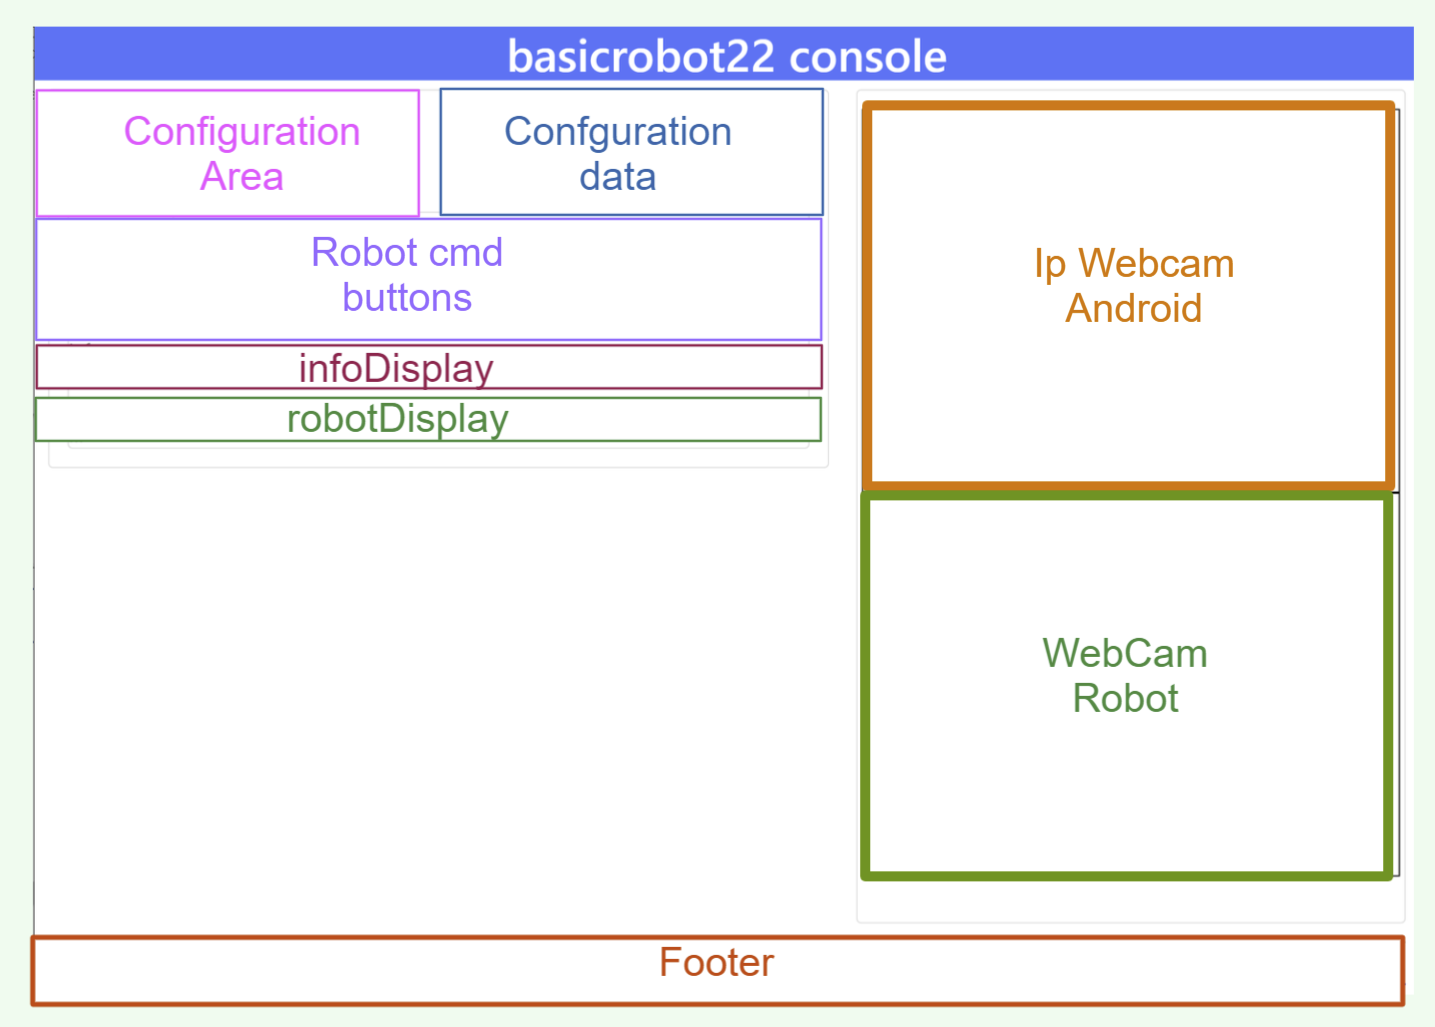
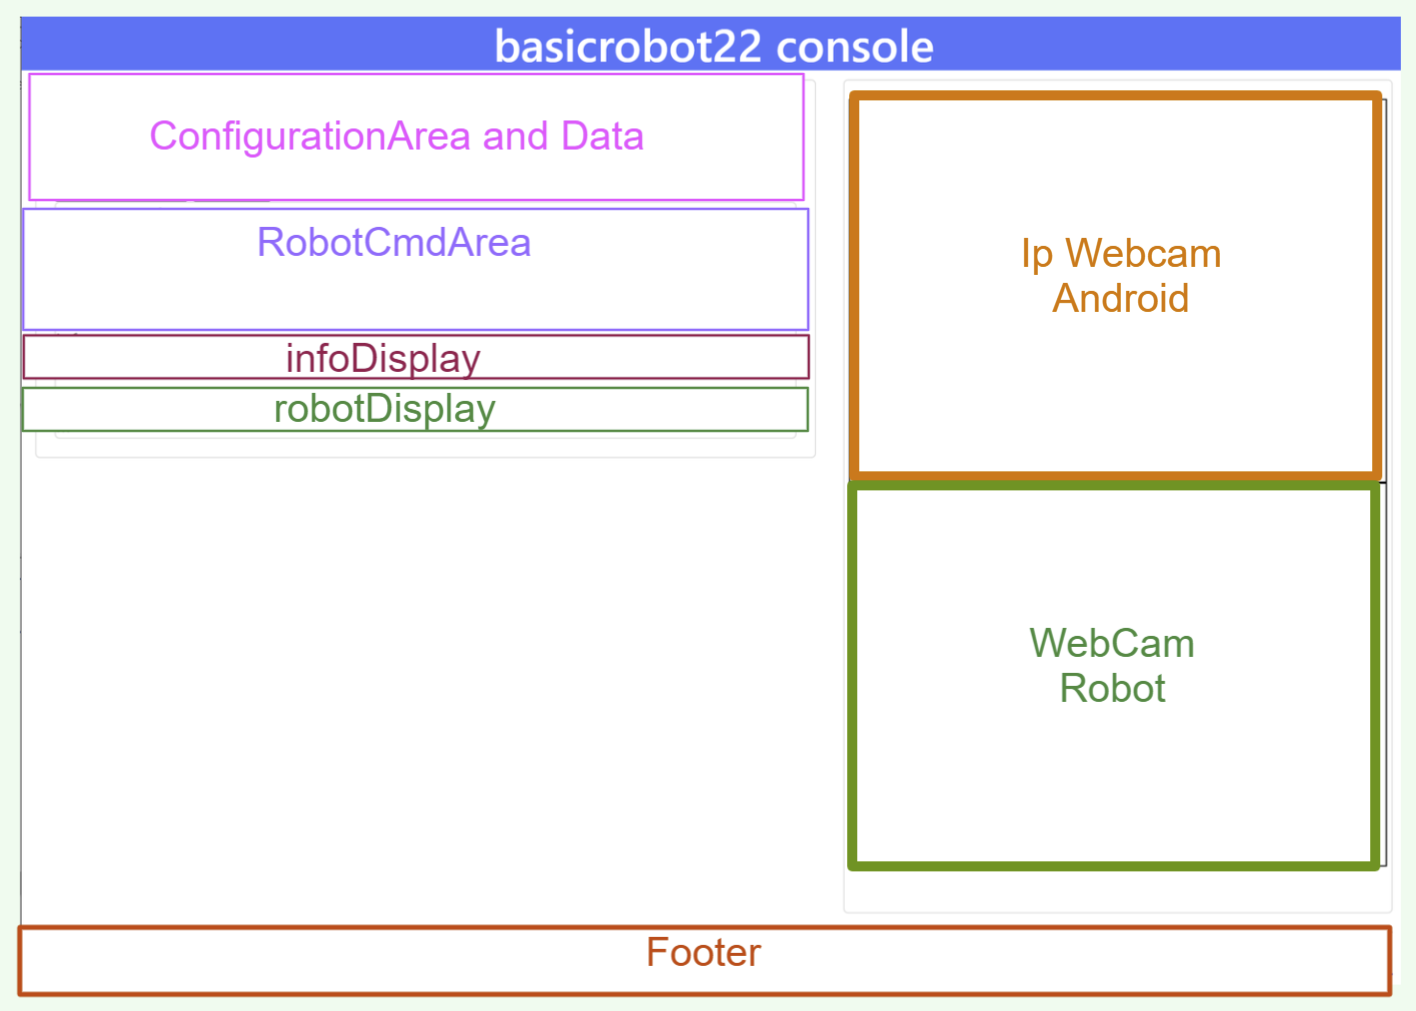
webRobot22 explained

Changed region(s): [[0.0, 0.0, 0.9944, 1.0], [0.7147, 0.2146, 0.8701, 0.3373], [0.7147, 0.6133, 0.839, 0.7052]]

diff --git a/webRobot22/src/main/resources/templates/basicrobot22Gui.html b/webRobot22/src/main/resources/templates/basicrobot22Gui.html
@@ -24,11 +24,13 @@
   <!-- PRIMA COLONNA (Input/Output area) -->
   <div class="col-7 px-1">  <!-- I/O area col  -->
 
+   <!-- CONFIGURATION Area and Data -->
    <div class="card iss-bg-inputarea">  <!-- I/O area card -->
     <div class="card-body">
-
+     <!-- PROTOCOL -->
      <div class="row"> <!-- protocol row in I/O area card -->
       <div class="col-7">
+       <!--   PROTOCOL InputArea   -->
        <form action="setprotocol" method="post">
         <!-- the form-data is sent to the path specified in the action attribute -->
         <!-- <label for="webcamspec">wcam ip</label> -->
@@ -36,32 +38,40 @@
         <input type="submit" value="protocol">
        </form>
       </div>
+         <!--   PROTOCOL DataArea   -->
       <div class="col-5 text-primary">
        <b><span th:text="${protocol}">tcp</span></b>
       </div>
-     </div> <!-- protocol row in I/O area card -->
+     </div> <!--  row protocol in I/O area card -->
 
-     <div class="row" > <!-- camip row in I/O area card  -->
+     <!-- WEBCAM Android -->
+        <div class="row" > <!-- camip row in I/O area card  -->
       <div class="col-7">
+          <!--   WEBCAM Android InputArea   -->
         <form action="setwebcamip" method="post">
          <!-- the form-data is sent to the path specified in the action attribute -->
          <input type="text" size="10" id="webcamspec" name="ipaddr" value="">
          <input type="submit" value="camip">
         </form>
       </div>
+        <!--   WEBCAM Android DataArea   -->
       <div class="col-5 text-info">
        <b><span th:text="${webcamip}" id="webcamipaddr">unknown</span></b>
       </div>
      </div> <!-- row webcamip in card in I/O area card  -->
 
+     <!-- ROBOT ADDRESS -->
      <div class="row"> <!-- row robotip in card in I/O area card  -->
       <div class="col-7">
+          <!--   ROBOT ADDRESS InputArea   -->
           <form action="setrobotip" method="post">
          <!-- the form-data is sent to the path specified in the action attribute -->
          <input type="text" size="10" id="configurespec" name="ipaddr" value="localhost">
          <input type="submit" value="robotip">
          </form>
        </div>
+
+         <!--   ROBOT ADDRESS DataArea   -->
       <div class="col-5 text-danger">
          <b><span th:text="${robotip}">not connected</span></b>
       </div>
@@ -70,9 +80,8 @@
      </div> <!-- I/O area card body -->
     </div>  <!-- I/O area card -->
 
-
-     <!--<div class="row">   row commands in I/O area card  -->
-        <div class="card  iss-bg-cmdarea text-primary"> <!--  command card -->
+    <!--  RobotCmdArea -->
+      <div class="card  iss-bg-cmdarea text-primary"> <!--  command card -->
          <div class="card-header">
           <h6>Commands</h6>
          </div>
@@ -90,9 +99,9 @@
              <div class="col"><button class='btn btn-warning btn-block border' id='p'>p (step) </button></div>
          </div> <!-- p,l,r commands row -->
         </div> <!-- command card-content -->
-        </div> <!--  command card -->
+      </div> <!--  command card -->
 
-      <!-- AREA DATI dal server -->
+      <!-- Informazioni inviate dal server -->
          <div class="card iss-bg-infoarea text-primary">
              <div class="card-header px-1">Info:</div>
              <div class="card-content px-1">

diff --git a/it.unibo.issLabStart/userDocs/iss22Working/source/webRobot22.rst b/it.unibo.issLabStart/userDocs/iss22Working/source/webRobot22.rst
@@ -137,8 +137,9 @@ in modo che presenti le aree mostrate in figura:
   :width: 70%
 
 
-- :ref:`ConfigurationArea`: area di input che include campi per la configurazione del sistema.
-- :ref:`ConfigurationData`: area di output  che mostra i valori dei dati di configurazione fissati dall'utente.
+- :ref:`ConfigurationArea and Data`: area che include campi di input per la configurazione del sistema 
+- e campi di output che mostrano i valori dei dati di configurazione fissati dall'utente.
+- :ref:`RobotCmdArea`: area di input con pulsanti per inviare comandi di movimento al robot.
 - *infoDisplay*: area di output  che visualizza informazioni di sistema.
 - *robotDisplay*: area di output  che visualizza informazioni relative al robot o al suo ambiente.
 - :ref:`Ip Webcam Android<WebcamArea>`: area di output  che visualizza lo stream prodotto da un telecamera posta su Android (ad esempio `IpWebcam`_) o su PC.
@@ -221,8 +222,13 @@ Le aree entro le colonne sono organizzate usando le  `Cards`_ secondo lo schema:
       </div>
 
 Per i colori del testo (``TEXTCOLOR``) faremo riferimento agli standard `Colors`_, mentre 
-per lo stile di background (``BGSTYLE``) faremo riferimento a definizioni custom, definite nel file
-`issSpec.css`_.
+per lo stile di background (``BGSTYLE``) faremo riferimento a definizioni custom.
+
+%%%%%%%%%%%%%%%%%%%%%%%%%%%%%%%%%%%%
+Stili custom: issSpec.css
+%%%%%%%%%%%%%%%%%%%%%%%%%%%%%%%%%%%%
+
+LA specifica degli stili custom è definite nel file `issSpec.css`_.
 
 Per le specifiche del tipo ``px-N``, si veda `Spacing`_.
 
@@ -256,25 +262,106 @@ Per la visualizzazione, sfrutteremo la specifica di URL *Protocol-relative* (``t
 
 
 I valori delle variabili ``webcamip`` e ``robotip`` sono definiti dai valori immessi dall'utente nella 
-:ref:`ConfigurationArea` e visualizzati nella parte :ref:`ConfigurationData`.
+*InputArea* della sezione :ref:`ConfigurationArea and Data`.
 
-Per queste e per le altre aree, tutte con la struttura indicata in
-:ref:`Schema delle aree`, ci limiteremo ad indicare solo la parte ``CARDCONTENT``.
+Per queste e per le altre aree,ci limiteremo a riportare solo la parte ``CARDCONTENT``
+indicata in :ref:`Schema delle aree`
 
 
 
 
 
 +++++++++++++++++++++++++++++++
-ConfigurationArea
+ConfigurationArea and Data
 +++++++++++++++++++++++++++++++
+ 
+.. code::
 
+  <!-- CONFIGURATION Area and Data   -->
+   <div class="card iss-bg-inputarea">   
+     <div class="card-body">
+        <!-- AREA PROTOCOL       --> 
+        <!-- AREA WEBCAM Android -->
+        <!-- AREA ROBOT ADDRESS  -->
+    </div>
+   </div>
+
+%%%%%%%%%%%%%%%%%%%%%%%%%%%%%%%%%%%
+Struttura delle aree
+%%%%%%%%%%%%%%%%%%%%%%%%%%%%%%%%%%%
+
+.. code::
+
+     <!-- AREA ...         --> 
+     <div class="row"> 
+      <div class="col-7">
+        <!--   InputArea   -->
+         ...
+      </div>      
+      <div class="col-5 text-primary">
+        <!--   DataArea      -->
+        ...
+      </div>
+     </div> <!-- row -->
+
+- Le aree di input sono espresse medinate form HTML
+- I dati sono visualizzati in filed con identificatori referenziabili via model
+
+Vediamo nel dettaglio.
+
+%%%%%%%%%%%%%%%%%%%%%%%%%%%%%%%%%%%
+Specifica del protocollo
+%%%%%%%%%%%%%%%%%%%%%%%%%%%%%%%%%%%
+
+.. code::
+ 
+      <!--   PROTOCOL InputArea   -->
+        <input type="text" size="10" id="protocolspec" name="protocol" value="coap">
+        <input type="submit" value="protocol">
+       </form>
+ 
+      <!--   PROTOCOL DataArea      -->
+        <b><span th:text="${protocol}">tcp</span></b>
+ 
+
+%%%%%%%%%%%%%%%%%%%%%%%%%%%%%%%%%%%
+Specifica della WEBCAM Android
+%%%%%%%%%%%%%%%%%%%%%%%%%%%%%%%%%%%
+
+.. code::
+  
+    <!--WEBCAM Android InputArea  --> 
+        <form action="setwebcamip" method="post">
+         <input type="text" size="10" id="webcamspec" name="ipaddr" value="">
+         <input type="submit" value="camip">
+        </form>
+
+    <!--WEBCAM Android DataArea  --> 
+
+%%%%%%%%%%%%%%%%%%%%%%%%%%%%%%%%%%%
+Specifica del ROBOT ADDRESS
+%%%%%%%%%%%%%%%%%%%%%%%%%%%%%%%%%%%
+
+.. code::
+  
+    <!-- ROBOT ADDRESS InputArea --> 
+      <form action="setrobotip" method="post">
+        <input type="text" size="10" id="configurespec" name="ipaddr" value="localhost">
+        <input type="submit" value="robotip">
+      </form>    
+
+    <!-- ROBOT ADDRESS DataArea  --> 
+       <b><span th:text="${robotip}">not connected</span></b>
 
 +++++++++++++++++++++++++++++++
 ConfigurationData
 +++++++++++++++++++++++++++++++
 
++++++++++++++++++++++++++++++++
+RobotCmdArea
++++++++++++++++++++++++++++++++
 
+RobotCmdArea
 
 +++++++++++++++++++++++++++++++
 Costruzione della pagina
